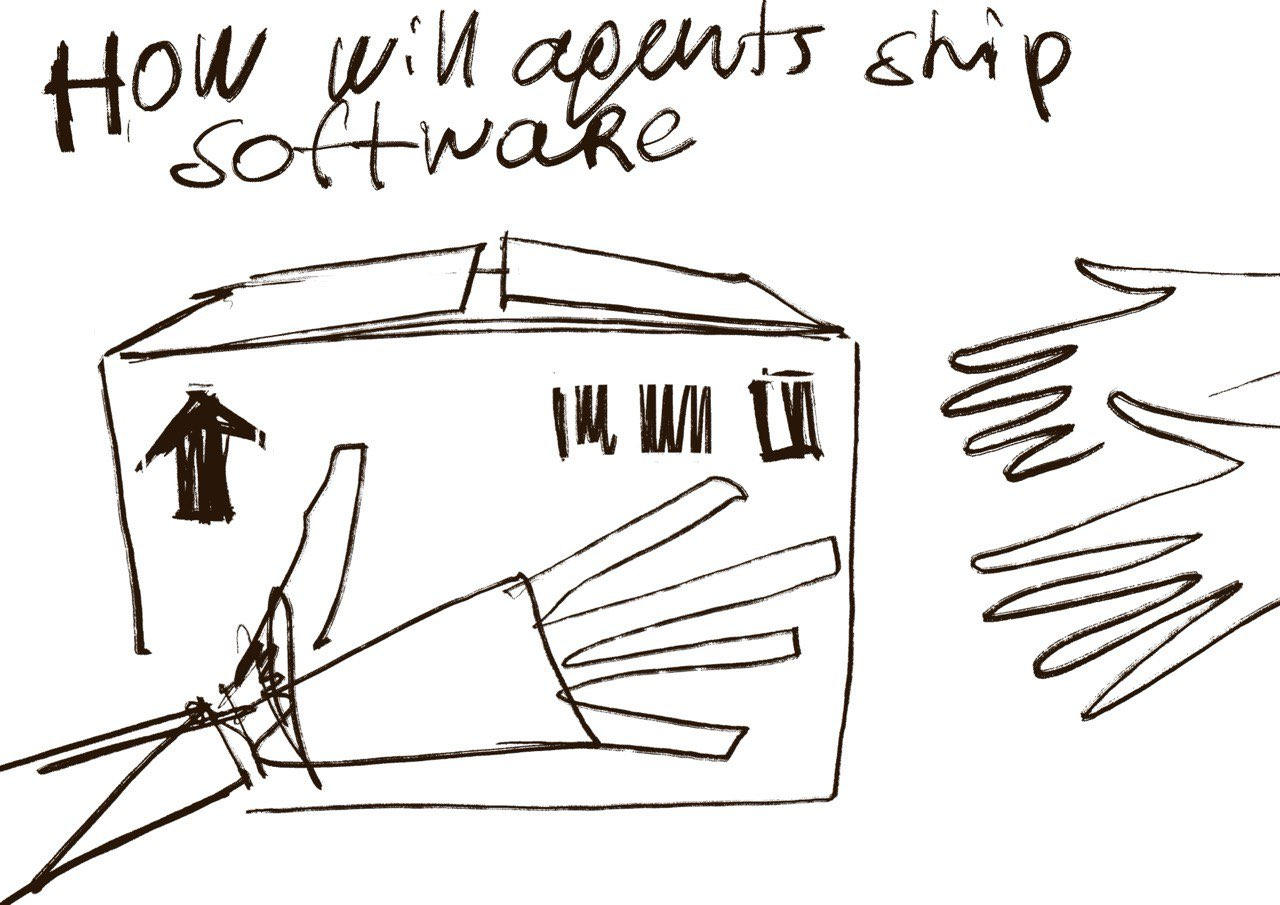
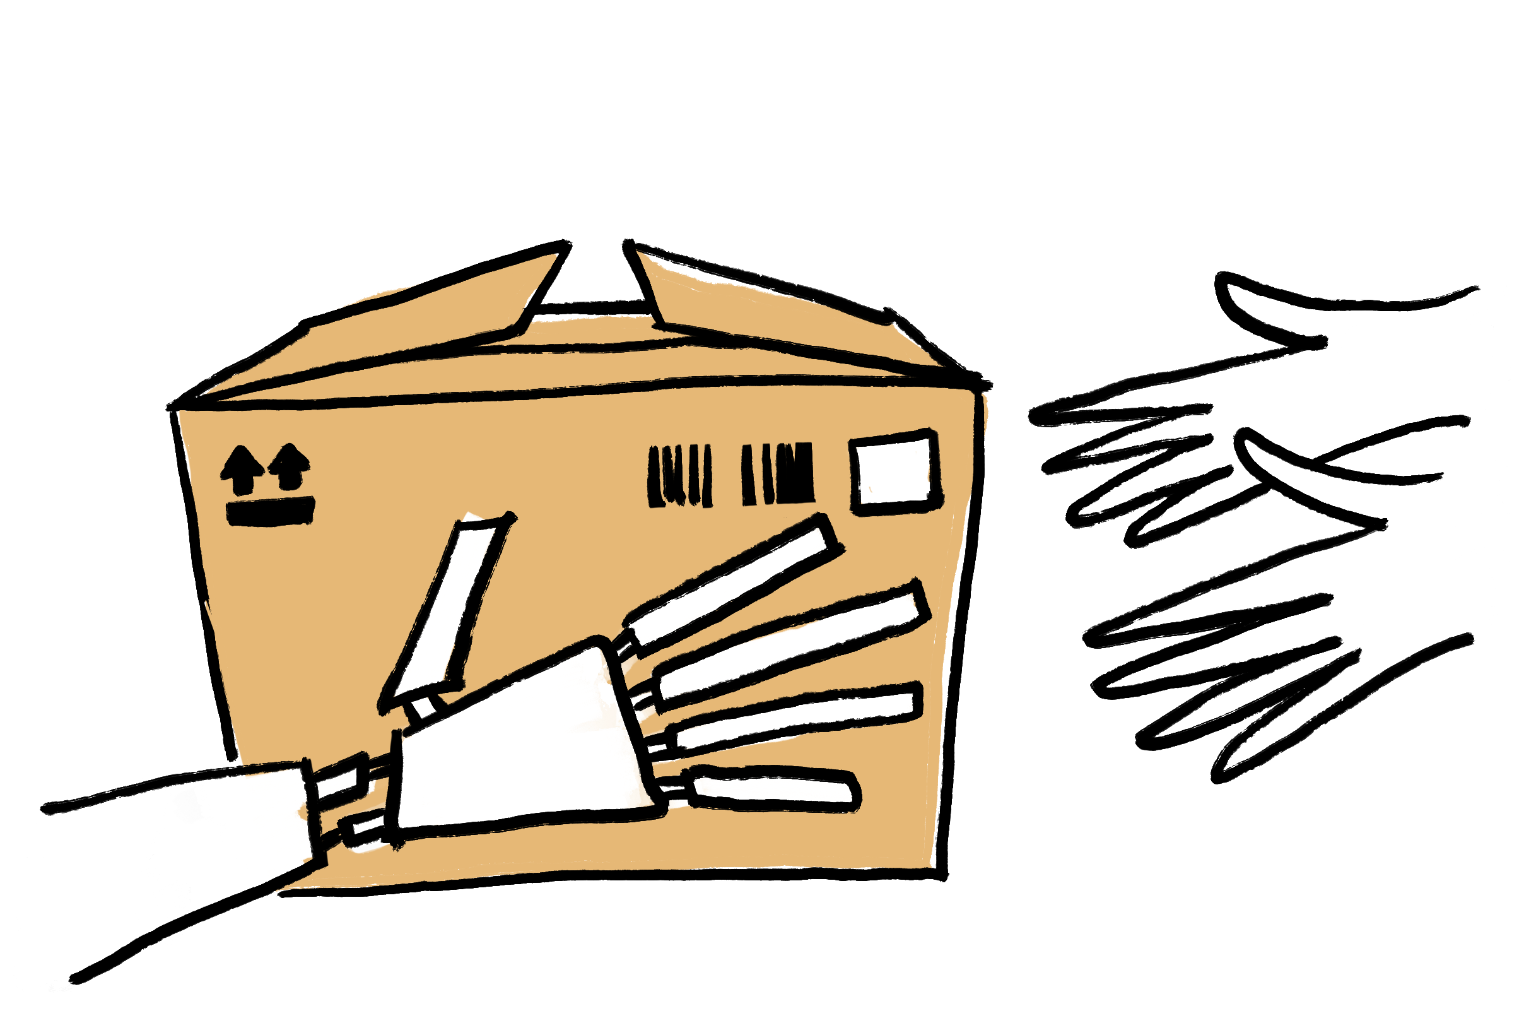
Sync Niki's updates

diff --git a/client/www/pages/essays/[slug].tsx b/client/www/pages/essays/[slug].tsx
@@ -50,7 +50,7 @@ function useAttachSpecialComponents({ post }: { post: Post }) {
   }, [slug]);
 }
 const Post = ({ post }: { post: Post }) => {
-  const { title, date, mdHTML, authors, hero } = post;
+  const { title, date, mdHTML, authors, hero, og_image } = post;
   useAttachSpecialComponents({ post });
   return (
     <LandingContainer>
@@ -60,7 +60,7 @@ const Post = ({ post }: { post: Post }) => {
         <meta
           key="og:image"
           property="og:image"
-          content={og.url({ title, section: 'blog' })}
+          content={og_image || hero || og.url({ title, section: 'blog' })}
         />
         <meta key="og:type" property="og:type" content="article" />
         <meta
@@ -74,8 +74,8 @@ const Post = ({ post }: { post: Post }) => {
       <div className="mt-6 p-4 space-y-4">
         <div className="mb-4 py-4 max-w-prose mx-auto">
           <h1 className="text-4xl font-medium mb-2">{title}</h1>
-          <div className="flex justify-between text-sm text-gray-500">
-            <span className="space-x-2">
+          <div className="flex text-sm text-gray-500">
+            <span>
               {authors.map((author, idx) => {
                 return (
                   <span>
@@ -91,12 +91,13 @@ const Post = ({ post }: { post: Post }) => {
                 );
               })}
             </span>
+            <span className="mx-1">·</span>
             {format(parse(date, 'yyyy-MM-dd', new Date()), 'MMM do, yyyy')}
           </div>
         </div>
         {hero && (
           <div className="max-w-3xl mx-auto">
-            <img src={hero} className="w-full rounded bg-gray-100" />
+            <img src={hero} className="w-full rounded" />
           </div>
         )}
         <Prose html={mdHTML} />

diff --git a/client/www/pages/essays/index.tsx b/client/www/pages/essays/index.tsx
@@ -43,8 +43,8 @@ export default function Page({ posts }: { posts: Post[] }) {
                     >
                       <h2 className="text-3xl font-medium mb-2">{title}</h2>
                     </NextLink>
-                    <div className="flex justify-between text-sm text-gray-500">
-                      <span className="space-x-1">
+                    <div className="flex text-sm text-gray-500">
+                      <span>
                         {authors.map((author, idx) => (
                           <span key={author.name}>
                             {author.name}
@@ -52,6 +52,7 @@ export default function Page({ posts }: { posts: Post[] }) {
                           </span>
                         ))}
                       </span>
+                      <span className="mx-1">·</span>
                       {format(
                         parse(date, 'yyyy-MM-dd', new Date()),
                         'MMM do, yyyy',

diff --git a/client/www/components/essays/shouts_demo.tsx b/client/www/components/essays/shouts_demo.tsx
@@ -185,7 +185,7 @@ function ShoutsDemoApp({
   setState: (state: AppCreatedState) => void;
 }) {
   const devBackend = getLocal('devBackend');
-  const uri = `/shouts-demo?a=${state.appId}&localBackend=${devBackend ? '1' : '0'}`;
+  const uri = `/shouts-demo?a=${state.appId}${devBackend ? '&localBackend=1' : ''}`;
   const fullURI = `${isDev ? 'http://localhost:3000' : 'https://instantdb.com'}${uri}`;
   return (
     <div className="not-prose">

diff --git a/client/www/components/marketingUi.tsx b/client/www/components/marketingUi.tsx
@@ -267,4 +267,5 @@ export interface Post {
   authors: Author[];
   isDraft?: boolean;
   hero?: string;
+  og_image?: string;
 }

diff --git a/client/www/_posts/agents.md b/client/www/_posts/agents.md
@@ -3,6 +3,7 @@ title: How and where will agents ship software?
 date: '2025-07-14'
 authors: stopachka, nikitonsky
 hero: /posts/agents/hero.png
+og_image: /posts/agents/og_image.png
 ---
 
 We’re entering a new phase of software engineering. People are becoming addicted to agents. Beginners are vibe-coding apps and experts are maxing out their LLM subscriptions. This means that a lot more people are going to make a lot more apps, and for that we’re going to need new tools.
@@ -101,15 +102,11 @@ We think that database-like abstractions are going to be an advantage.
 
 # A Multi-Tenant Sync Engine
 
-So if agents and humans work best when they have (1) built-in abstractions that (2) are hosted efficiently and (3) expose data, what infrastructure works best?
+So if agents and humans work best when they have (1) built-in abstractions that are (2) hosted efficiently and (3) expose data, what infrastructure works best?
 
-Agents have a problem with the traditional client-server architecture. It involves multiple moving and constantly changing parts that all need to work in unison: a server, a client and a database.
+Agents are best at writing self-contained code. Code that they can reason about in one place, without too much extraneous state and edge cases. That’s why the traditional client-server architecture is hard for them: it involves multiple parts that all need to work in unison—a server, a client, and a database.
 
-Agents are best at writing self-contained code. Code that they can reason about in one place, without too much extraneous state and edge cases.
-
-They can do this by building a local-only desktop app (but then — no internet, multiple devices, or collaboration). They could build a server-only app (then you get latency, no offline mode, hosting costs). Or they can create a client-only app that treats the backend like a remote database. In other words, a sync engine.
-
-The last one is the future we are building Instant for.
+There are several ways to build self-contained apps. It can be a local-only desktop app (but then — no internet, multiple devices, or collaboration). It can be a server-only app (then you get latency, no offline mode, hosting costs). Or it could be a client-only app that treats the backend like a remote database. In other words, a sync engine.
 
 ![](/posts/agents/sync_engine.png)
 
@@ -118,6 +115,8 @@ Sync engines let you work with data as if it was local and not worry about fetch
 Queries and transactions are straight-forward to sandbox. You can host them on multi-tenant platforms. Which makes for efficient apps (2).
 
 And since you get a database-like abstraction, exposing data is relatively straightforward too (3).
+
+That’s the future we are building Instant for.
 
 # A Tool for Hackers
 
@@ -129,11 +128,11 @@ Hackers want good abstractions. So we built a sync engine, permissions, auth, fi
 
 Hackers also want efficient hosting. They build lots of projects, and it sucks when apps end up frozen. So we made our sync engine and database multi-tenant. This way we could offer a generous free tier.
 
-There’s still a lot to do, but real startups are using Instant today, and pushing upwards of 10,000 concurrent connections.
-
 # Exposing the API
 
-Instant is already great for hackers. Today we are making it easy for machines too.
+Instant is already great for hackers. Real startups are using Instant today, and pushing upwards of 10,000 concurrent connections.
+
+Today we are making it easy for machines too.
 
 We’re releasing three things:
 
